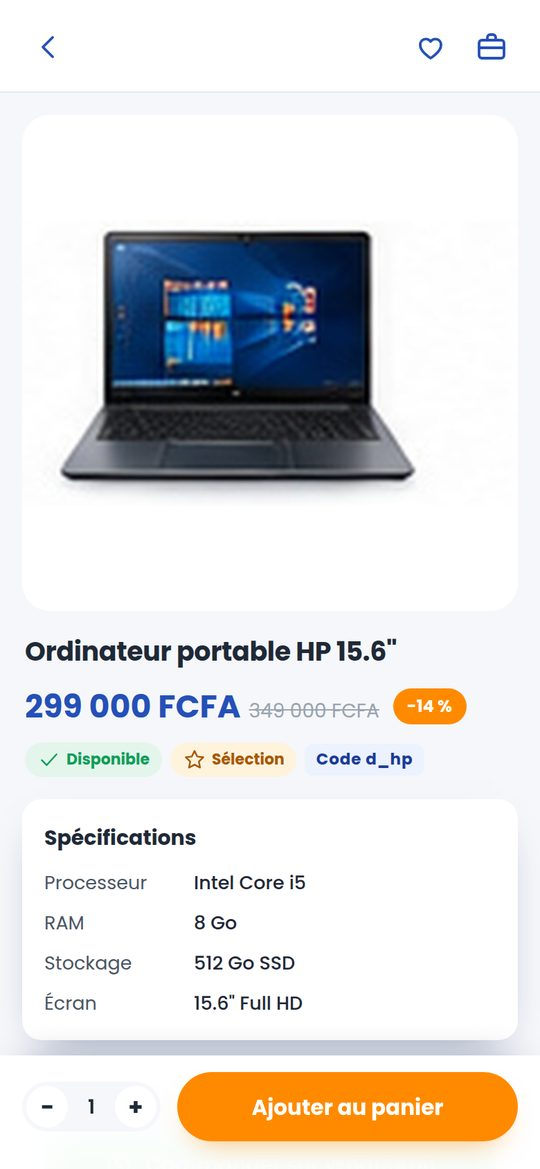
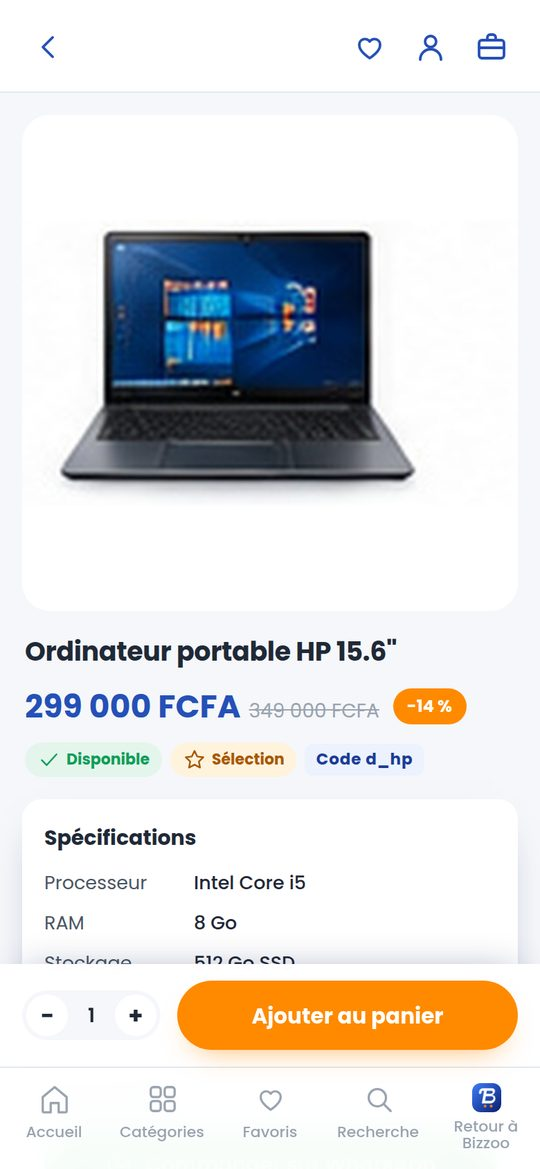
Version 3.54.0 : la nouvelle barre du bas, et la vitrine qui la montre
L'enseigne a validé les modifications de navigation du client :
- sur BIZZOO, Accueil, Catégories, Favoris, Recherche, et le compte en
  haut à côté du panier ;
- dans une boutique, Accueil (sa vitrine), Catégories (ses rayons),
  Favoris, Recherche et « Retour à Bizzoo ».

Les captures de la vitrine (vitrine/ecran-*.jpg) et l'image de partage
(vitrine/partage.jpg) sont refaites : elles montrent la nouvelle barre.

Version 3.54.0 (versionCode 95, SW client v87 ; l'admin ne change pas).

Claude-Session: https://claude.ai/code/session_01UgqyHth6VrmMzadCgoowtH

Changed region(s): [[0.0296, 0.8007, 0.9778, 1.0], [0.7704, 0.0308, 0.8296, 0.0616], [0.6519, 0.0308, 0.7111, 0.0616]]

diff --git a/client/sw.js b/client/sw.js
@@ -5,7 +5,7 @@
    après le premier affichage.
    Incrémenter VERSION à chaque mise à jour des fichiers.
    ========================================================= */
-const VERSION = "impact-client-v86";
+const VERSION = "impact-client-v87";
 const CACHE_PHOTOS = "impact-client-photos-v1";
 
 const FICHIERS = [

diff --git a/README.md b/README.md
@@ -3113,7 +3113,7 @@ même défaut. Toute carte-lien est désormais un bloc (`:where(a).carte`,
 qui laisse aux variantes en flex le dernier mot), et `banc-da` mesure
 que chaque carte-lien enveloppe son titre.
 
-## La barre du bas à deux visages
+## La barre du bas à deux visages (3.54.0)
 
 La barre du bas n'est plus la même partout : elle dit où l'on se tient.
 
@@ -3165,7 +3165,10 @@ BIZZOO, « Retour à Bizzoo » jamais affiché, les favoris filtrés par la
 boutique, l'action posée sur les onglets, le compte retiré du haut, la
 recherche jamais limitée, la petite taille retirée à 320 px, les rayons
 d'une catégorie non filtrés, la fiche produit sans barre.
-`banc-da-ecrans` suit les nouvelles règles de la barre.
+`banc-da-ecrans` et `banc-notifications` suivent la nouvelle barre (la
+cloche se pose avant le compte, le panier reste le dernier bouton). Les
+captures de la vitrine et l'image de partage sont refaites : elles
+montrent la nouvelle barre.
 
 ## Publication sur le Play Store (le moment venu)
 
